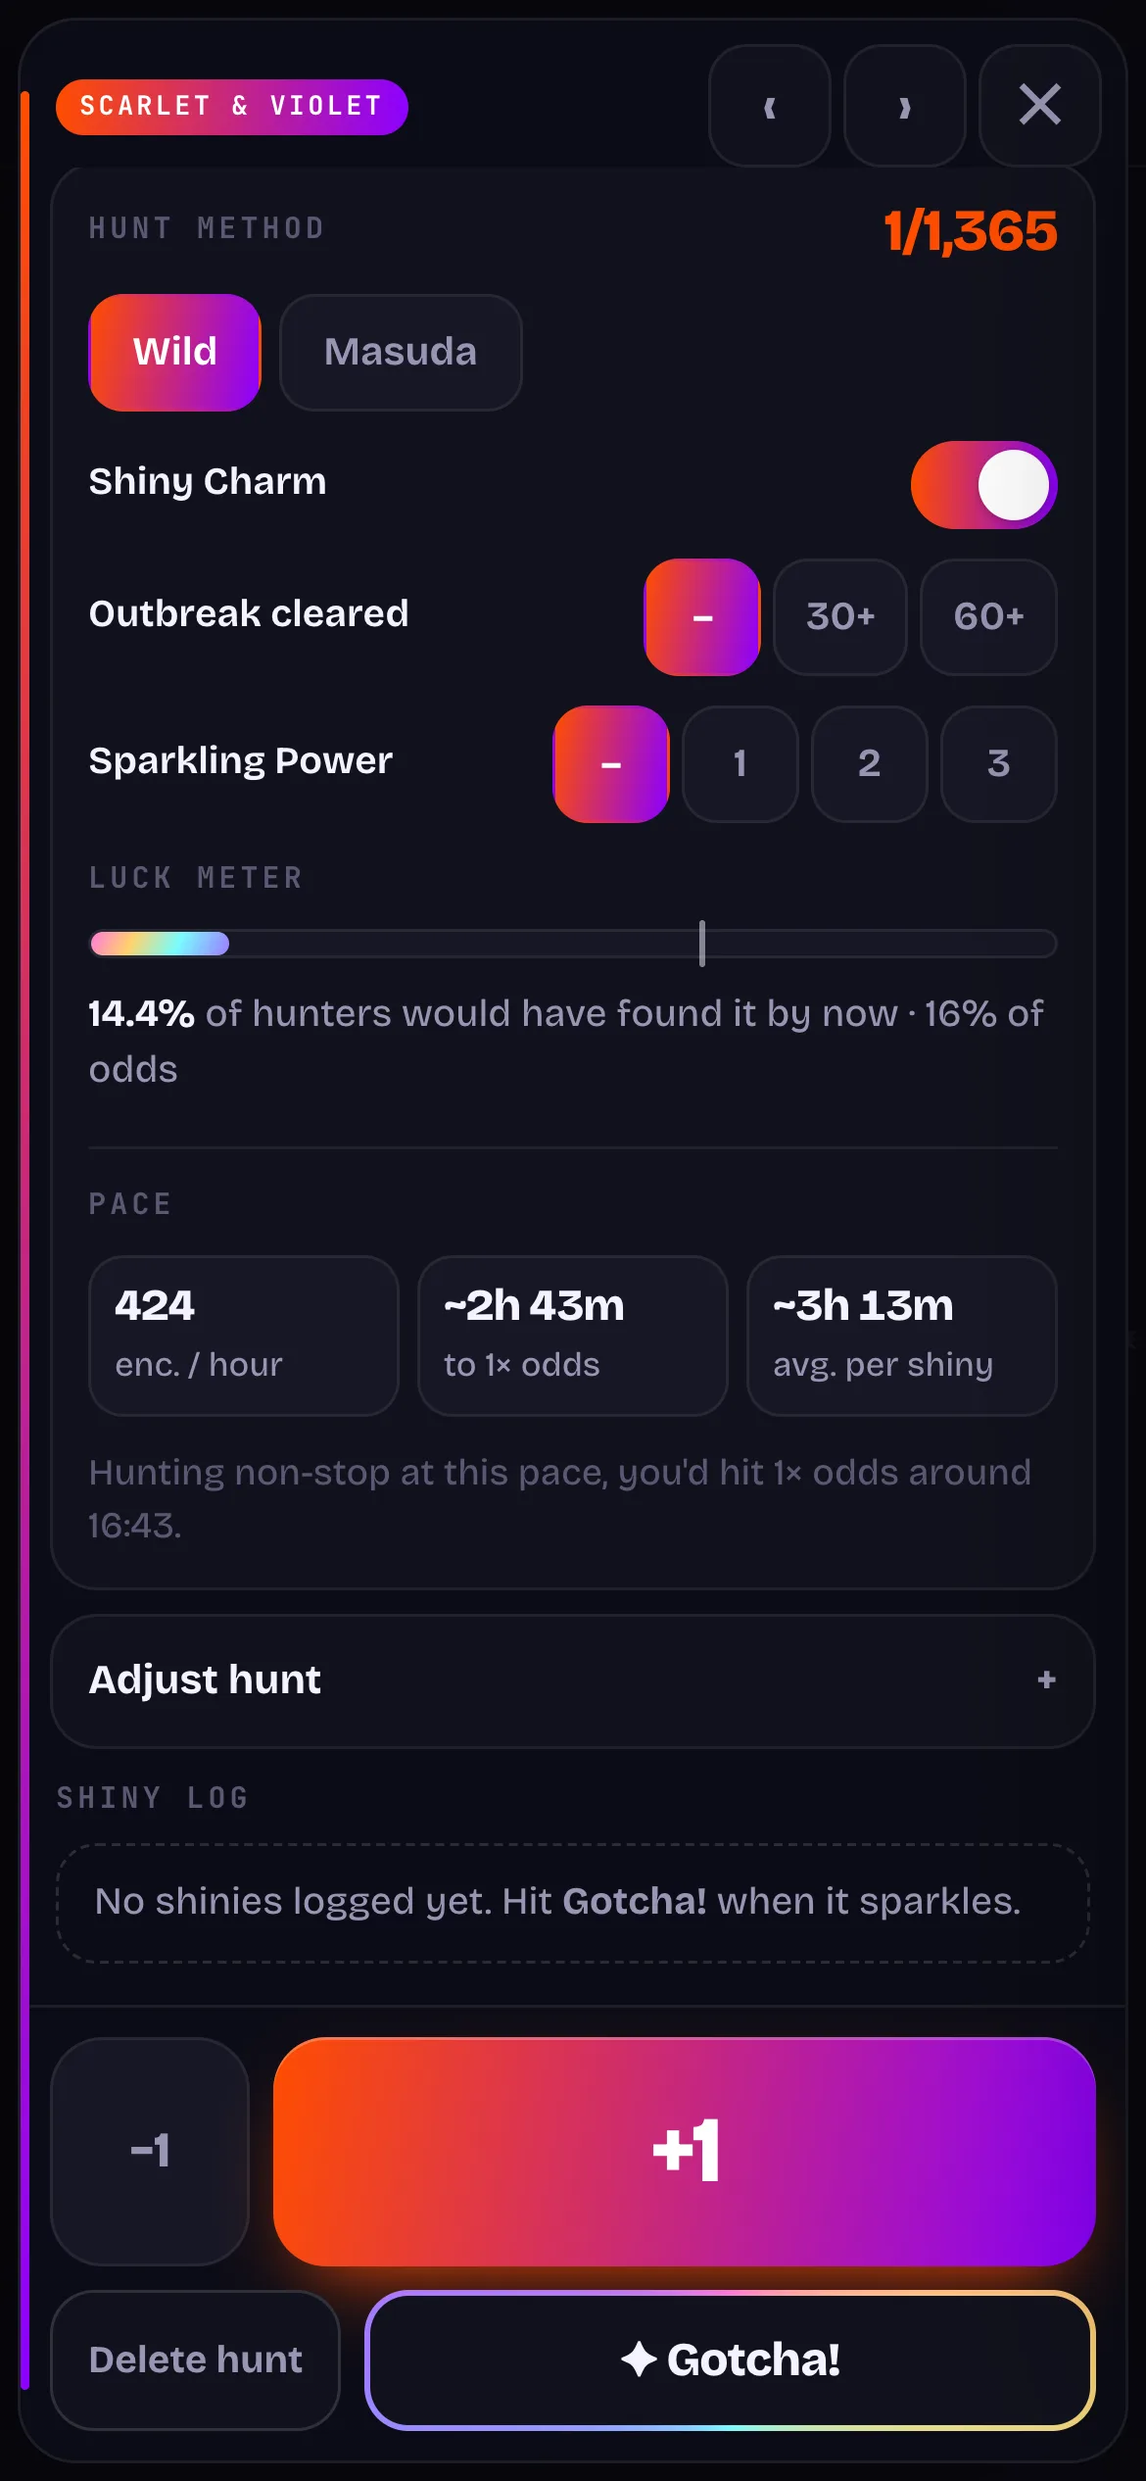
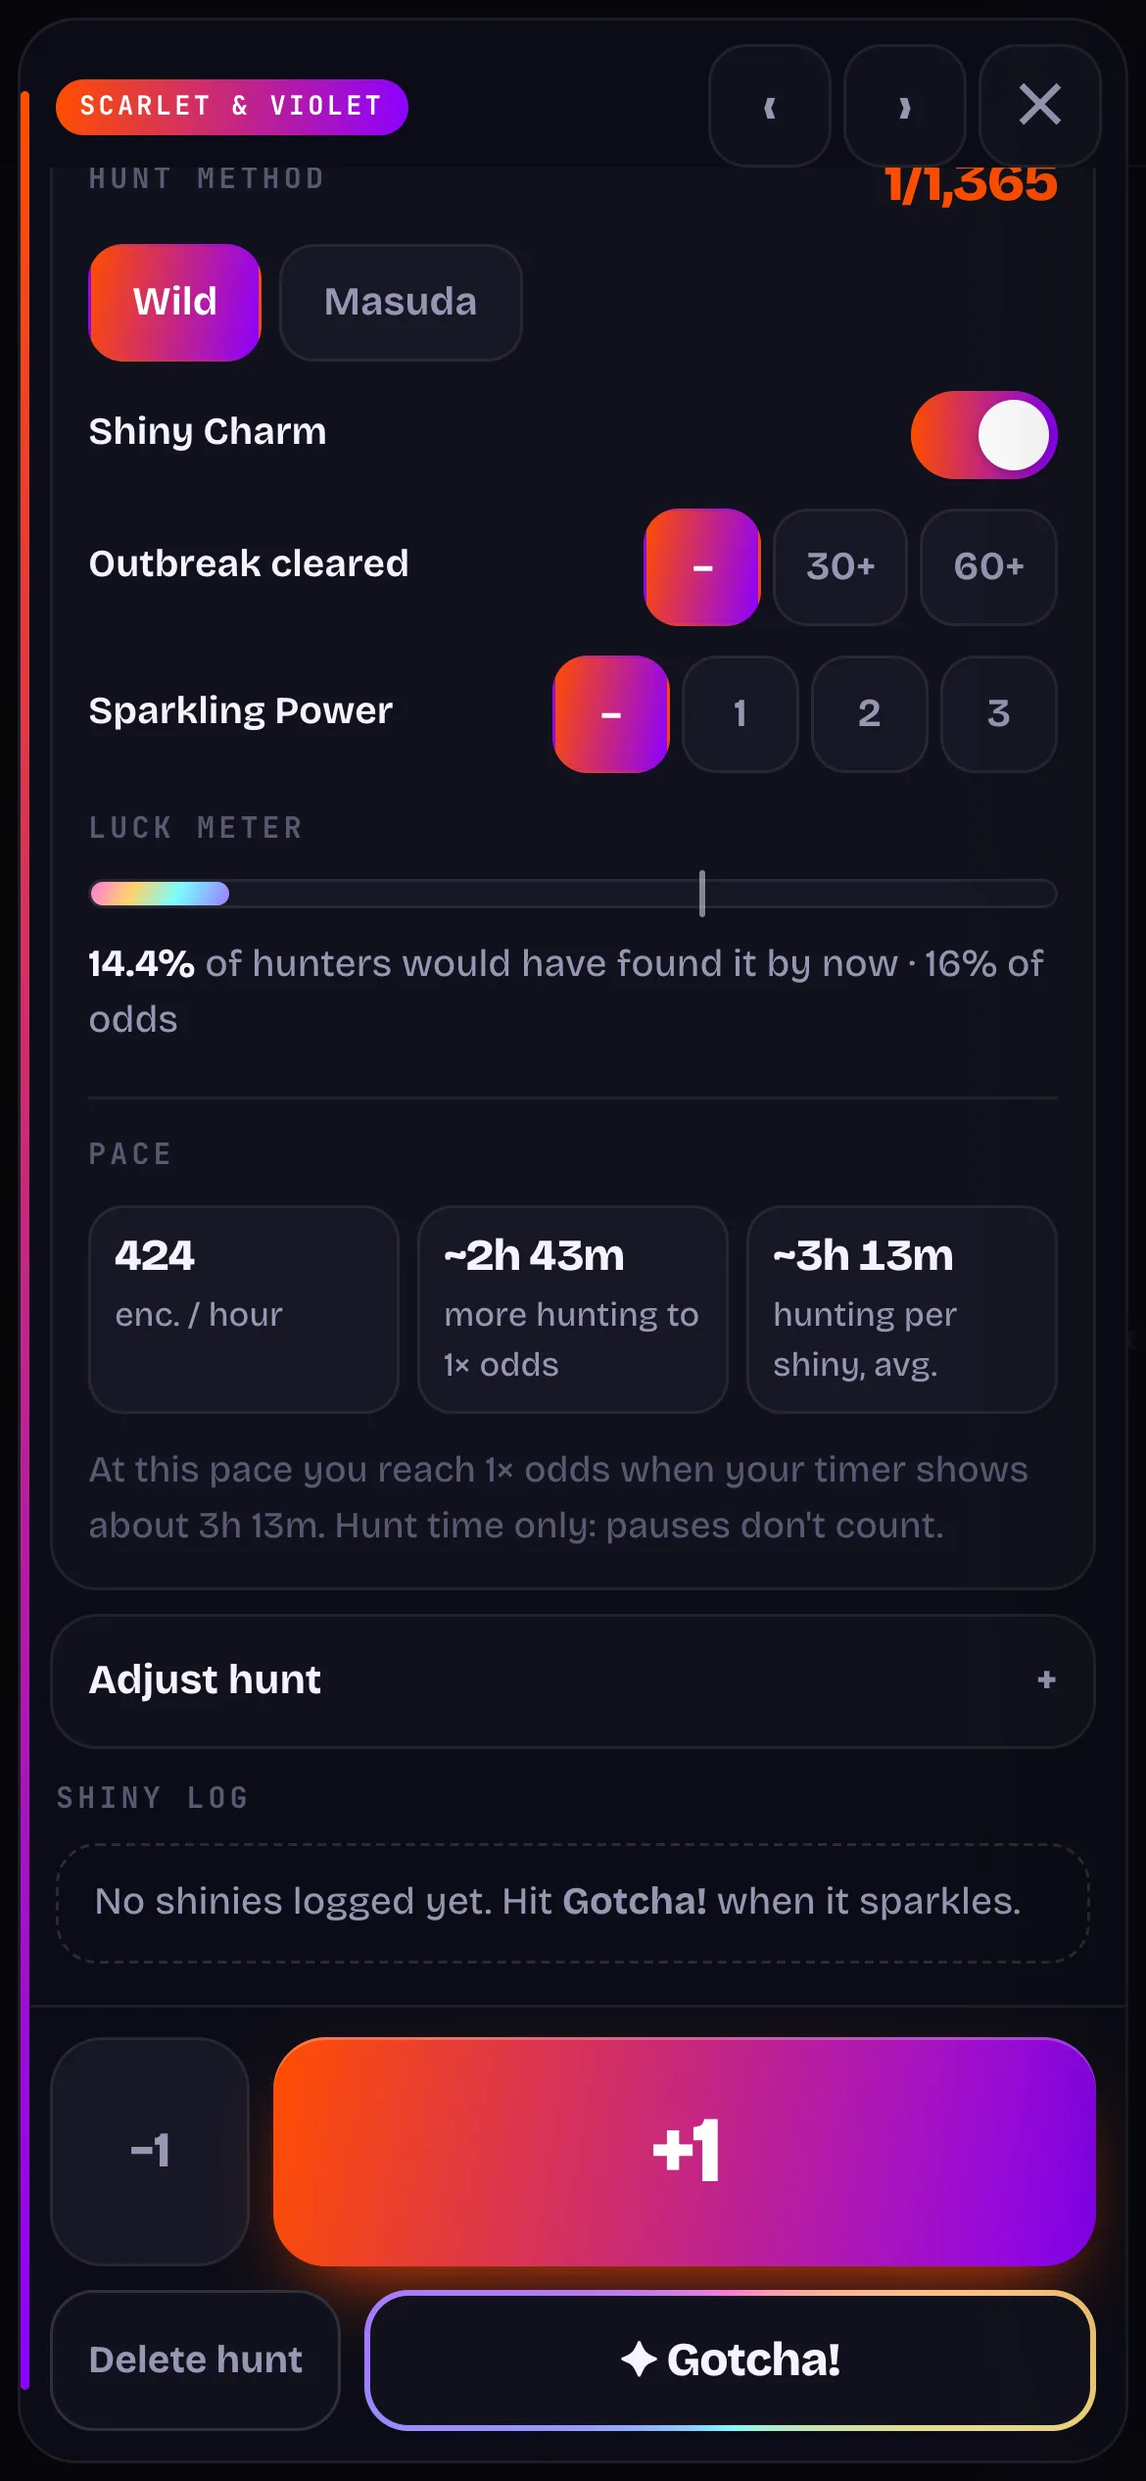
Pace: show hours of hunting and the timer target instead of a clock time

diff --git a/index.html b/index.html
@@ -31,28 +31,28 @@
   <link rel="preconnect" href="https://fonts.gstatic.com" crossorigin>
   <link href="https://fonts.googleapis.com/css2?family=Bricolage+Grotesque:opsz,wght@12..96,400..800&family=JetBrains+Mono:wght@500;700&display=swap" rel="stylesheet">
   <!-- css:start -->
-  <link rel="stylesheet" href="css/01-base.css?v=20260930175529">
-  <link rel="stylesheet" href="css/02-shell-sidebar.css?v=20260930175529">
-  <link rel="stylesheet" href="css/03-page.css?v=20260930175529">
-  <link rel="stylesheet" href="css/04-cards.css?v=20260930175529">
-  <link rel="stylesheet" href="css/05-game-page.css?v=20260930175529">
-  <link rel="stylesheet" href="css/06-toast.css?v=20260930175529">
-  <link rel="stylesheet" href="css/07-mobile-layout.css?v=20260930175529">
-  <link rel="stylesheet" href="css/08-card-hunts.css?v=20260930175529">
-  <link rel="stylesheet" href="css/09-hunt-deck.css?v=20260930175529">
-  <link rel="stylesheet" href="css/10-dex-entry.css?v=20260930175529">
-  <link rel="stylesheet" href="css/11-accounts.css?v=20260930175529">
-  <link rel="stylesheet" href="css/12-labels-pickers.css?v=20260930175529">
-  <link rel="stylesheet" href="css/13-stats.css?v=20260930175529">
-  <link rel="stylesheet" href="css/14-home-extras.css?v=20260930175529">
-  <link rel="stylesheet" href="css/15-roulette.css?v=20260930175529">
-  <link rel="stylesheet" href="css/16-dialogs.css?v=20260930175529">
-  <link rel="stylesheet" href="css/17-landing.css?v=20260930175529">
-  <link rel="stylesheet" href="css/18-hunt-tools.css?v=20260930175529">
-  <link rel="stylesheet" href="css/19-phones.css?v=20260930175529">
-  <link rel="stylesheet" href="css/20-touch.css?v=20260930175529">
-  <link rel="stylesheet" href="css/21-install.css?v=20260930175529">
-  <link rel="stylesheet" href="css/22-whats-new.css?v=20260930175529">
+  <link rel="stylesheet" href="css/01-base.css?v=20260930180226">
+  <link rel="stylesheet" href="css/02-shell-sidebar.css?v=20260930180226">
+  <link rel="stylesheet" href="css/03-page.css?v=20260930180226">
+  <link rel="stylesheet" href="css/04-cards.css?v=20260930180226">
+  <link rel="stylesheet" href="css/05-game-page.css?v=20260930180226">
+  <link rel="stylesheet" href="css/06-toast.css?v=20260930180226">
+  <link rel="stylesheet" href="css/07-mobile-layout.css?v=20260930180226">
+  <link rel="stylesheet" href="css/08-card-hunts.css?v=20260930180226">
+  <link rel="stylesheet" href="css/09-hunt-deck.css?v=20260930180226">
+  <link rel="stylesheet" href="css/10-dex-entry.css?v=20260930180226">
+  <link rel="stylesheet" href="css/11-accounts.css?v=20260930180226">
+  <link rel="stylesheet" href="css/12-labels-pickers.css?v=20260930180226">
+  <link rel="stylesheet" href="css/13-stats.css?v=20260930180226">
+  <link rel="stylesheet" href="css/14-home-extras.css?v=20260930180226">
+  <link rel="stylesheet" href="css/15-roulette.css?v=20260930180226">
+  <link rel="stylesheet" href="css/16-dialogs.css?v=20260930180226">
+  <link rel="stylesheet" href="css/17-landing.css?v=20260930180226">
+  <link rel="stylesheet" href="css/18-hunt-tools.css?v=20260930180226">
+  <link rel="stylesheet" href="css/19-phones.css?v=20260930180226">
+  <link rel="stylesheet" href="css/20-touch.css?v=20260930180226">
+  <link rel="stylesheet" href="css/21-install.css?v=20260930180226">
+  <link rel="stylesheet" href="css/22-whats-new.css?v=20260930180226">
   <!-- css:end -->
 </head>
 <body>
@@ -722,69 +722,69 @@
   <div class="toast" id="toast" role="status" aria-live="polite"></div>
 
   <!-- Content: plain scripts that set window.DEX, FORMS, UPDATES and EVO (see data/) -->
-  <script src="data/pokedex.js?v=20260930175529"></script>
-  <script src="data/forms.js?v=20260930175529"></script>
-  <script src="data/updates.js?v=20260930175529"></script>
-  <script src="data/evolutions.js?v=20260930175529"></script>
+  <script src="data/pokedex.js?v=20260930180226"></script>
+  <script src="data/forms.js?v=20260930180226"></script>
+  <script src="data/updates.js?v=20260930180226"></script>
+  <script src="data/evolutions.js?v=20260930180226"></script>
   <!-- App: ES modules in js/. The import map gives each module the current ?v= (scripts/bump-version.mjs). -->
   <!-- importmap:start -->
   <script type="importmap">
   {
     "imports": {
-      "./js/components/burst.js": "./js/components/burst.js?v=20260930175529",
-      "./js/components/card.js": "./js/components/card.js?v=20260930175529",
-      "./js/components/form-picker.js": "./js/components/form-picker.js?v=20260930175529",
-      "./js/components/game-picker.js": "./js/components/game-picker.js?v=20260930175529",
-      "./js/components/hunt-setup.js": "./js/components/hunt-setup.js?v=20260930175529",
-      "./js/components/icons.js": "./js/components/icons.js?v=20260930175529",
-      "./js/components/progress.js": "./js/components/progress.js?v=20260930175529",
-      "./js/components/section.js": "./js/components/section.js?v=20260930175529",
-      "./js/components/sidebar.js": "./js/components/sidebar.js?v=20260930175529",
-      "./js/components/status.js": "./js/components/status.js?v=20260930175529",
-      "./js/components/toast.js": "./js/components/toast.js?v=20260930175529",
-      "./js/components/two-step.js": "./js/components/two-step.js?v=20260930175529",
-      "./js/core/collection.js": "./js/core/collection.js?v=20260930175529",
-      "./js/core/config.js": "./js/core/config.js?v=20260930175529",
-      "./js/core/format.js": "./js/core/format.js?v=20260930175529",
-      "./js/core/state.js": "./js/core/state.js?v=20260930175529",
-      "./js/core/store.js": "./js/core/store.js?v=20260930175529",
-      "./js/core/util.js": "./js/core/util.js?v=20260930175529",
-      "./js/features/app-install.js": "./js/features/app-install.js?v=20260930175529",
-      "./js/features/backups.js": "./js/features/backups.js?v=20260930175529",
-      "./js/features/dex-entry.js": "./js/features/dex-entry.js?v=20260930175529",
-      "./js/features/hunt-deck/deck.js": "./js/features/hunt-deck/deck.js?v=20260930175529",
-      "./js/features/hunt-deck/pace.js": "./js/features/hunt-deck/pace.js?v=20260930175529",
-      "./js/features/hunt-deck/phases.js": "./js/features/hunt-deck/phases.js?v=20260930175529",
-      "./js/features/hunt-deck/pop-out.js": "./js/features/hunt-deck/pop-out.js?v=20260930175529",
-      "./js/features/notifications.js": "./js/features/notifications.js?v=20260930175529",
-      "./js/features/roulette.js": "./js/features/roulette.js?v=20260930175529",
-      "./js/features/share-card.js": "./js/features/share-card.js?v=20260930175529",
-      "./js/features/sync.js": "./js/features/sync.js?v=20260930175529",
-      "./js/features/theme.js": "./js/features/theme.js?v=20260930175529",
-      "./js/features/v2-import.js": "./js/features/v2-import.js?v=20260930175529",
-      "./js/features/whats-new.js": "./js/features/whats-new.js?v=20260930175529",
-      "./js/main.js": "./js/main.js?v=20260930175529",
-      "./js/model/availability.js": "./js/model/availability.js?v=20260930175529",
-      "./js/model/dex.js": "./js/model/dex.js?v=20260930175529",
-      "./js/model/evolutions.js": "./js/model/evolutions.js?v=20260930175529",
-      "./js/model/forms.js": "./js/model/forms.js?v=20260930175529",
-      "./js/model/game-dex.js": "./js/model/game-dex.js?v=20260930175529",
-      "./js/model/games.js": "./js/model/games.js?v=20260930175529",
-      "./js/model/hunt-pace.js": "./js/model/hunt-pace.js?v=20260930175529",
-      "./js/model/hunt-setup.js": "./js/model/hunt-setup.js?v=20260930175529",
-      "./js/pages/game.js": "./js/pages/game.js?v=20260930175529",
-      "./js/pages/home.js": "./js/pages/home.js?v=20260930175529",
-      "./js/pages/hunts.js": "./js/pages/hunts.js?v=20260930175529",
-      "./js/pages/router.js": "./js/pages/router.js?v=20260930175529",
-      "./js/pages/stats.js": "./js/pages/stats.js?v=20260930175529",
-      "./js/pages/toolbar.js": "./js/pages/toolbar.js?v=20260930175529",
-      "./js/pages/updates.js": "./js/pages/updates.js?v=20260930175529",
-      "./js/services/cloud.js": "./js/services/cloud.js?v=20260930175529"
+      "./js/components/burst.js": "./js/components/burst.js?v=20260930180226",
+      "./js/components/card.js": "./js/components/card.js?v=20260930180226",
+      "./js/components/form-picker.js": "./js/components/form-picker.js?v=20260930180226",
+      "./js/components/game-picker.js": "./js/components/game-picker.js?v=20260930180226",
+      "./js/components/hunt-setup.js": "./js/components/hunt-setup.js?v=20260930180226",
+      "./js/components/icons.js": "./js/components/icons.js?v=20260930180226",
+      "./js/components/progress.js": "./js/components/progress.js?v=20260930180226",
+      "./js/components/section.js": "./js/components/section.js?v=20260930180226",
+      "./js/components/sidebar.js": "./js/components/sidebar.js?v=20260930180226",
+      "./js/components/status.js": "./js/components/status.js?v=20260930180226",
+      "./js/components/toast.js": "./js/components/toast.js?v=20260930180226",
+      "./js/components/two-step.js": "./js/components/two-step.js?v=20260930180226",
+      "./js/core/collection.js": "./js/core/collection.js?v=20260930180226",
+      "./js/core/config.js": "./js/core/config.js?v=20260930180226",
+      "./js/core/format.js": "./js/core/format.js?v=20260930180226",
+      "./js/core/state.js": "./js/core/state.js?v=20260930180226",
+      "./js/core/store.js": "./js/core/store.js?v=20260930180226",
+      "./js/core/util.js": "./js/core/util.js?v=20260930180226",
+      "./js/features/app-install.js": "./js/features/app-install.js?v=20260930180226",
+      "./js/features/backups.js": "./js/features/backups.js?v=20260930180226",
+      "./js/features/dex-entry.js": "./js/features/dex-entry.js?v=20260930180226",
+      "./js/features/hunt-deck/deck.js": "./js/features/hunt-deck/deck.js?v=20260930180226",
+      "./js/features/hunt-deck/pace.js": "./js/features/hunt-deck/pace.js?v=20260930180226",
+      "./js/features/hunt-deck/phases.js": "./js/features/hunt-deck/phases.js?v=20260930180226",
+      "./js/features/hunt-deck/pop-out.js": "./js/features/hunt-deck/pop-out.js?v=20260930180226",
+      "./js/features/notifications.js": "./js/features/notifications.js?v=20260930180226",
+      "./js/features/roulette.js": "./js/features/roulette.js?v=20260930180226",
+      "./js/features/share-card.js": "./js/features/share-card.js?v=20260930180226",
+      "./js/features/sync.js": "./js/features/sync.js?v=20260930180226",
+      "./js/features/theme.js": "./js/features/theme.js?v=20260930180226",
+      "./js/features/v2-import.js": "./js/features/v2-import.js?v=20260930180226",
+      "./js/features/whats-new.js": "./js/features/whats-new.js?v=20260930180226",
+      "./js/main.js": "./js/main.js?v=20260930180226",
+      "./js/model/availability.js": "./js/model/availability.js?v=20260930180226",
+      "./js/model/dex.js": "./js/model/dex.js?v=20260930180226",
+      "./js/model/evolutions.js": "./js/model/evolutions.js?v=20260930180226",
+      "./js/model/forms.js": "./js/model/forms.js?v=20260930180226",
+      "./js/model/game-dex.js": "./js/model/game-dex.js?v=20260930180226",
+      "./js/model/games.js": "./js/model/games.js?v=20260930180226",
+      "./js/model/hunt-pace.js": "./js/model/hunt-pace.js?v=20260930180226",
+      "./js/model/hunt-setup.js": "./js/model/hunt-setup.js?v=20260930180226",
+      "./js/pages/game.js": "./js/pages/game.js?v=20260930180226",
+      "./js/pages/home.js": "./js/pages/home.js?v=20260930180226",
+      "./js/pages/hunts.js": "./js/pages/hunts.js?v=20260930180226",
+      "./js/pages/router.js": "./js/pages/router.js?v=20260930180226",
+      "./js/pages/stats.js": "./js/pages/stats.js?v=20260930180226",
+      "./js/pages/toolbar.js": "./js/pages/toolbar.js?v=20260930180226",
+      "./js/pages/updates.js": "./js/pages/updates.js?v=20260930180226",
+      "./js/services/cloud.js": "./js/services/cloud.js?v=20260930180226"
     }
   }
   </script>
   <!-- importmap:end -->
-  <script type="module" src="js/main.js?v=20260930175529"></script>
-  <script type="module" src="js/services/cloud.js?v=20260930175529"></script>
+  <script type="module" src="js/main.js?v=20260930180226"></script>
+  <script type="module" src="js/services/cloud.js?v=20260930180226"></script>
 </body>
 </html>

diff --git a/js/features/hunt-deck/pace.js b/js/features/hunt-deck/pace.js
@@ -1,6 +1,6 @@
-// Pace: encounters per hour in the Hunt Deck, with how long until the next odds milestone and the
-// average wait for a shiny at that pace. The maths lives in model/hunt-pace.js.
-import { fmtClock, fmtEta, nf } from "../../core/format.js";
+// Pace: encounters per hour in the Hunt Deck, with how many more hours of hunting until the next odds
+// milestone and the average hunting time per shiny at that pace (hunt time, not clock time). The maths lives in model/hunt-pace.js.
+import { fmtEta, nf } from "../../core/format.js";
 import { elapsed, hunts, isActive } from "../../core/store.js";
 import { $ } from "../../core/util.js";
 import { huntPace } from "../../model/hunt-pace.js";
@@ -14,15 +14,12 @@ export function paintPace(h) {
   if (box.hidden) return;
   const secs = elapsed(h), p = huntPace(h, secs);
   if (!p) {
-    $("#drPaceStats").innerHTML = stat("—", "enc. / hour") + stat("—", "to 1× odds") + stat("—", "avg. per shiny");
+    $("#drPaceStats").innerHTML = stat("—", "enc. / hour") + stat("—", "more hunting to 1× odds") + stat("—", "hunting per shiny, avg.");
     $("#drPaceNote").textContent = "Your pace shows after a minute and a few encounters.";
     return;
   }
   $("#drPaceStats").innerHTML = stat(nf(Math.round(p.perHour)), "enc. / hour")
-    + stat(fmtEta(p.toNext), `to ${p.next}× odds`)
-    + stat(fmtEta(p.perShiny), "avg. per shiny");
-  // A clock time only makes sense while the timer runs and the milestone is within the week.
-  $("#drPaceNote").textContent = h.since && p.toNext < 6 * 86400
-    ? `Hunting non-stop at this pace, you'd hit ${p.next}× odds around ${fmtClock(Date.now() + p.toNext * 1000)}.`
-    : `Based on ${nf(h.count)} encounters in your hunt time. Every encounter has the same odds, whatever came before.`;
+    + stat(fmtEta(p.toNext), `more hunting to ${p.next}× odds`)
+    + stat(fmtEta(p.perShiny), "hunting per shiny, avg.");
+  $("#drPaceNote").textContent = `At this pace you reach ${p.next}× odds when your timer shows about ${fmtEta(secs + p.toNext).slice(1)}. Hunt time only: pauses don't count.`;
 }

diff --git a/js/core/format.js b/js/core/format.js
@@ -4,11 +4,6 @@ export const fmtTime = s => `${Math.floor(s / 3600)}h ${String(Math.floor(s / 60
 export const fmtShort = s => s >= 3600 ? `${Math.floor(s / 3600)}h ${Math.floor(s / 60) % 60}m` : s >= 60 ? `${Math.floor(s / 60)}m ${s % 60}s` : `${s}s`;
 export const nf = n => n.toLocaleString("en-US");
 export const fmtPct = p => (p === 100 || p === 0 ? p.toFixed(0) : p.toFixed(1)) + "%";
-// Rough duration for estimates: "~2d 5h", "~9h 20m", "~12m", "<1m".
-export const fmtEta = s => s < 60 ? "<1m" : "~" + (s >= 86400 ? `${Math.floor(s / 86400)}d ${Math.floor(s / 3600) % 24}h`
+// Rough hunting time for estimates, in hours (nobody hunts days on end): "~53h", "~9h 20m", "~12m", "<1m".
+export const fmtEta = s => s < 60 ? "<1m" : "~" + (s >= 36000 ? `${Math.round(s / 3600)}h`
   : s >= 3600 ? `${Math.floor(s / 3600)}h ${Math.floor(s / 60) % 60}m` : `${Math.floor(s / 60)}m`);
-// Clock time for "around 21:40", with the weekday when it's not today: "Sat 14:05".
-export const fmtClock = ts => {
-  const d = new Date(ts), t = d.toLocaleTimeString("en-GB", { hour: "2-digit", minute: "2-digit" });
-  return d.toDateString() === new Date().toDateString() ? t : `${d.toLocaleDateString("en-GB", { weekday: "short" })} ${t}`;
-};

diff --git a/data/updates.js b/data/updates.js
@@ -13,11 +13,11 @@ window.UPDATES = [
     id: "hunt-pace-2026-09",
     date: "2026-09-30",
     title: "Hunt pace and ETA",
-    text: "The Hunt Deck now shows your encounters per hour, how long until you hit odds at that pace, and the average wait for a shiny.",
+    text: "The Hunt Deck now shows your encounters per hour, how many more hours of hunting until you hit odds at that pace, and the average hunting time per shiny.",
     steps: [
       "Open a hunt and scroll to **Pace**, under the luck meter.",
       "It appears after a minute and a few encounters, and follows your timer.",
-      "While the timer runs you also see the time you'd hit odds hunting non-stop.",
+      "It counts hunt time, like your timer: pauses don't count.",
     ],
     shot: "shots/updates/hunt-pace.webp",
     action: { label: "Open Active hunts", go: "hunts" },

diff --git a/sw.js b/sw.js
@@ -6,7 +6,7 @@
 // - Fonts and the Firebase SDK: served from the cache, refreshed in the background.
 // Firestore, sign-in and other API calls are never touched (Firestore keeps its own offline copy).
 // Also shows push notifications (update news) and opens the app when one is tapped.
-const VERSION = "20260930175529"; // stamped by scripts/bump-version.sh on every commit
+const VERSION = "20260930180226"; // stamped by scripts/bump-version.sh on every commit
 const SHELL = `shinycheck-shell-${VERSION}`;
 const RUNTIME = "shinycheck-runtime-v1";
 const CORE = [
